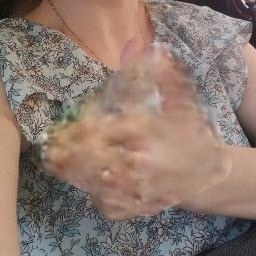
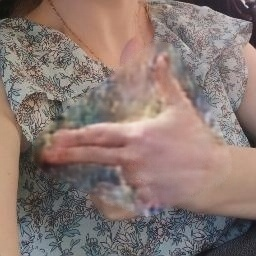
nice results

Changed region(s): [[0.125, 0.1562, 0.875, 0.8438], [0.75, 0.5625, 0.9062, 0.625], [0.5, 0.2812, 0.5312, 0.3125]]

diff --git a/prepare_images.py b/prepare_images.py
@@ -6,29 +6,31 @@ import os
 from typing import List, Dict
 import json
 from tqdm import tqdm
-from consts import IMAGE_SIZE, GESTURES, ANNOTATIONS_PATH, IMAGES_PATH, CROPPED_PATH
+from consts import ANNOTATIONS_PATH, IMAGES_PATH
 
 mp_hands = mp.solutions.hands
 mp_drawing = mp.solutions.drawing_utils
 mp_drawing_styles = mp.solutions.drawing_styles
 hands = mp_hands.Hands(static_image_mode=True, max_num_hands=2)
 
-def remove_hand_and_draw_skeleton_blank(path, expand=60, fill_color=(255,255,255)):
+def remove_hand_and_draw_skeleton_blank(path, it, expand=60, fill_color=(255,255,255)):
+    if os.path.exists(path) == False:
+        return
     image_bgr = cv2.imread(path)
     h, w = image_bgr.shape[:2]
     img_rgb = cv2.cvtColor(image_bgr, cv2.COLOR_BGR2RGB)
 
     result = hands.process(img_rgb)
 
-    if not result.multi_hand_landmarks or len(result.multi_hand_landmarks) <= 3:
+    if not result.multi_hand_landmarks or it >= len(result.multi_hand_landmarks):
         return
 
     # --- STEP 1: create mask ---
     mask = np.zeros((h, w), dtype=np.uint8)
-    for hand in result.multi_hand_landmarks:
-        pts = np.array([(int(lm.x * w), int(lm.y * h)) for lm in hand.landmark], dtype=np.int32)
-        hull = cv2.convexHull(pts)
-        cv2.fillConvexPoly(mask, hull, 255)
+    hand = result.multi_hand_landmarks[it]
+    pts = np.array([(int(lm.x * w), int(lm.y * h)) for lm in hand.landmark], dtype=np.int32)
+    hull = cv2.convexHull(pts)
+    cv2.fillConvexPoly(mask, hull, 255)
 
     # expand mask so it covers entire hand
     kernel = cv2.getStructuringElement(cv2.MORPH_ELLIPSE, (expand, expand))
@@ -39,10 +41,11 @@ def remove_hand_and_draw_skeleton_blank(path, expand=60, fill_color=(255,255,255
     out[mask == 255] = fill_color  # paint hand area white (or black)
 
     # --- STEP 3: draw skeleton ---
-    for hand in result.multi_hand_landmarks:
-        mp_drawing.draw_landmarks(out, hand, mp_hands.HAND_CONNECTIONS)
-
-    cv2.imwrite(path.replace("cropped", "temp"), out)
+    mp_drawing.draw_landmarks(out, hand, mp_hands.HAND_CONNECTIONS)
+    
+    out_path = path.replace("cropped", "no_hands")
+    os.makedirs(os.path.dirname(out_path), exist_ok=True)
+    cv2.imwrite(out_path, out)
 
 def replace_gesture(source_gesture, target_gesture, expand=60, fill_color=(255,255,255)):
     image_bgr = cv2.imread(target_gesture)
@@ -74,7 +77,8 @@ def replace_gesture(source_gesture, target_gesture, expand=60, fill_color=(255,2
 
 # replace_gesture('./0a9ddce1-2cd4-4b14-9e43-3889b6a6e87c.jpg', './0a14f51b-4cf4-4694-adb2-4f3f41ae9f19.jpg', 40)
 
-def _crop_centered_box(image, bbox, output_size=(IMAGE_SIZE, IMAGE_SIZE)):
+def _crop_centered_box(image, bbox, image_size):
+    output_size = (image_size, image_size)
     img_h, img_w = image.shape[:2]
     x, y, w, h = bbox
 
@@ -122,7 +126,7 @@ class Record:
     hand_landmarks: List[List[List[float]]]  # 2D landmarks per hand
 DataStructure = Dict[str, Record]
 
-def _process_custom_json(image_dir, json_path, gesture_label, output_dir, output_size=(IMAGE_SIZE, IMAGE_SIZE)):
+def _process_custom_json(image_dir, json_path, gesture_label, output_dir, image_size):
     os.makedirs(output_dir, exist_ok=True)
 
     with open(json_path, 'r') as f:
@@ -140,43 +144,42 @@ def _process_custom_json(image_dir, json_path, gesture_label, output_dir, output
         image_path = os.path.join(image_dir, f"{gesture_label}/{image_id}.jpg")
         os.makedirs(os.path.join(image_dir, gesture_label), exist_ok=True)
 
-        image = cv2.imread(image_path)
-        if image is None:
-            print(f"❌ Cannot read image: {image_path}")
+        if os.path.exists(image_path) == False:
             continue
 
+        image = cv2.imread(image_path)
         bboxes = info.bboxes
 
         for it, bbox in enumerate(bboxes):
             if ((len(bboxes) > 1 and info.labels[it] != gesture_label) or len(info.hand_landmarks[it]) == 0):
                 continue
-            crop = _crop_centered_box(image, bbox, output_size)
+            
+            crop = _crop_centered_box(image, bbox, image_size)
 
             filename = f"{image_id}.jpg"
             out_path = os.path.join(output_dir, filename)
             cv2.imwrite(out_path, crop)
+            remove_hand_and_draw_skeleton_blank(out_path, it, expand=30, fill_color=(255,255,255))
 
     print(f"✅ Cropped images saved to: {output_dir}")
 
-def prepare_images():
-    for gesture in GESTURES:
+def prepare_images(gestures, image_size):
+    for gesture in gestures:
         for dirpath, _, filenames in os.walk(ANNOTATIONS_PATH):
             for filename in filenames:
                 file_path = os.path.join(dirpath, filename)
-                output_folder = os.path.join(dirpath.replace('annotations', 'cropped'), gesture)
                 if gesture not in file_path:
                     continue
+                output_folder = os.path.join(dirpath.replace('annotations', 'cropped'), gesture)
                 _process_custom_json(
                     image_dir=IMAGES_PATH,
                     json_path=file_path,
                     gesture_label=gesture,
                     output_dir=output_folder,
-                    output_size=(IMAGE_SIZE, IMAGE_SIZE)
+                    image_size=image_size
                 )
 
-# prepare_images()
-
-IMAGE_PATH = "./cropped/train/three_gun"
-for img_name in tqdm(os.listdir(IMAGE_PATH)):
-    path = os.path.join(IMAGE_PATH, img_name)
-    remove_hand_and_draw_skeleton_blank(path, expand=20, fill_color=(255,255,255))
+# IMAGE_PATH = "./cropped/train/three_gun"
+# for img_name in tqdm(os.listdir(IMAGE_PATH)):
+#     path = os.path.join(IMAGE_PATH, img_name)
+#     remove_hand_and_draw_skeleton_blank(path, expand=30, fill_color=(255,255,255)

diff --git a/dataset.py b/dataset.py
@@ -1,31 +1,47 @@
+import random
+import torch
 import os
 from PIL import Image
 from torch.utils.data import Dataset
 import torchvision.transforms as transforms
 
 class HandsDataset(Dataset):
-    def __init__(self, train_dir, size):
-        self.train_dir = train_dir
-        self.files = sorted(os.listdir(self.train_dir))
-        self.image_paths = []
-        self.label_paths = []
+    def __init__(self, base_dir, gestures, size, max_per_gesture=1000):
         self.transform = transforms.Compose([
             transforms.Resize((size, size)),
             transforms.ToTensor(),
             transforms.Normalize((0.5, 0.5, 0.5), (0.5, 0.5, 0.5)),                     # normalizing range (-1, 1)
         ])
+        self.samples = []
+        for gesture in gestures:
+            skel_dir = os.path.join(base_dir, f"no_hands/train/{gesture}")
+            real_dir = os.path.join(base_dir, f"cropped/train/{gesture}")
+            skel_files = sorted(os.listdir(skel_dir))[:max_per_gesture]
+            for f in skel_files:
+                skel_path = os.path.join(skel_dir, f)
+                real_path = os.path.join(real_dir, f)
+                if os.path.exists(real_path):
+                    self.samples.append((skel_path, real_path))
+
+        self.weights = [1.0 / len(gestures)] * len(self.samples)  # Equal weight per gesture
 
     def __len__(self):
-        return len(self.files)
+        return len(self.samples)
 
     def __getitem__(self, idx):
-        image_path = os.path.join(self.train_dir, self.files[idx])
-        image = Image.open(image_path).convert("RGB")
+        skel_img = Image.open(self.samples[idx][0]).convert("RGB")
+        real_img = Image.open(self.samples[idx][1]).convert("RGB")
 
-        orig_path = image_path.replace("no_hands", "cropped")
-        orig = Image.open(orig_path).convert("RGB")
+        # Apply same seed for paired augmentation
+        seed = random.randint(0, 2**32)
+        random.seed(seed)
+        skel = self.transform(skel_img)
+        random.seed(seed)
+        real = self.transform(real_img)
 
-        image = self.transform(image)
-        orig = self.transform(orig)
+        # Add noise to skeleton with 30% probability
+        if random.random() < 0.3:
+            skel += torch.randn_like(skel) * 0.05
+            skel = torch.clamp(skel, -1, 1)
 
-        return image, orig
+        return skel, real

diff --git a/train.py b/train.py
@@ -7,9 +7,10 @@ from tqdm.auto import tqdm
 import glob
 from models import Generator, Discriminator, Pix2Pix
 import numpy as np
+from perceptual import vgg_loss, VGGPerceptual
 
 class Train():
-    def __init__(self, device, train_loader, learning_rate, epochs, lambda_l1):
+    def __init__(self, device, train_loader, learning_rate, epochs, lambda_l1, lambda_vgg):
         self.device = device
         self.generator = Generator().to(device)
         self.discriminator = Discriminator().to(device)
@@ -18,7 +19,9 @@ class Train():
         self.pix2pix = Pix2Pix(self.generator, self.discriminator).to(device)
         self.epochs = epochs
         self.lambda_l1 = lambda_l1
+        self.lambda_vgg = lambda_vgg
         self.train_loader = train_loader
+        self.vgg_model = VGGPerceptual(device=device)
         self.load_checkpoint()
 
     def train_pix2pix(self, display_interval):
@@ -49,11 +52,15 @@ class Train():
                 fake_images = self.pix2pix.generator(segmented_images)
                 fake_output = self.pix2pix.discriminator(segmented_images, fake_images)
                 g_loss = self.pix2pix.generator_loss(fake_output, fake_images, real_images, self.lambda_l1)
-                g_loss.backward()
+
+                loss_vgg = vgg_loss(fake_images, real_images, self.vgg_model)
+                g_loss_total = g_loss + self.lambda_vgg * loss_vgg
+
+                g_loss_total.backward()
                 self.g_optimizer.step()
 
                 train_d_loss += d_loss.item()
-                train_g_loss += g_loss.item()
+                train_g_loss += g_loss_total.item()
 
             # average train loss per epoch
             train_d_losses.append(train_d_loss / len(self.train_loader))

diff --git a/main.py b/main.py
@@ -1,22 +1,29 @@
 import torch
-from torch.utils.data import DataLoader
+from torch.utils.data import DataLoader, WeightedRandomSampler
 from dataset import HandsDataset
 from train import Train
+from prepare_images import prepare_images
 
 device = torch.device("cuda" if torch.cuda.is_available() else "cpu")
 
+
 SIZE = 256
-batch_size = 32
+batch_size = 16
 num_epochs = 100
-learning_rate = 2e-4
-lambda_l1 = 50
+learning_rate = 1e-4
+lambda_l1 = 15
+lambda_vgg = 0.1
 display_interval = 10
-train_dir = "./no_hands/train/like"
+train_dir = "./"
+GESTURES = ['like', 'three_gun']
 
-train_dataset = HandsDataset(train_dir, size=SIZE)
-train_loader = DataLoader(train_dataset, batch_size=batch_size, shuffle=True, num_workers=2, persistent_workers=True)
+# prepare_images(GESTURES, SIZE)
 
-train = Train(device, train_loader, learning_rate, num_epochs, lambda_l1)
+train_dataset = HandsDataset(train_dir, GESTURES, size=SIZE)
+sampler = WeightedRandomSampler(train_dataset.weights, len(train_dataset))
+train_loader = DataLoader(train_dataset, batch_size=batch_size, num_workers=2, sampler=sampler, persistent_workers=True)
+
+train = Train(device, train_loader, learning_rate, num_epochs, lambda_l1, lambda_vgg)
 # train_g_losses, train_d_losses = train.train_pix2pix(display_interval)
 
 train.generate_image('./replace.jpg')

diff --git a/perceptual.py b/perceptual.py
@@ -1,0 +1,35 @@
+# Add at the top of the file
+import torchvision.models as models
+import torch.nn as nn
+import torch.nn.functional as F
+
+# Define a simple VGG perceptual module
+class VGGPerceptual(nn.Module):
+    def __init__(self, layers=(3, 8, 15), device='cuda'):
+        super().__init__()
+        vgg = models.vgg16(pretrained=True).features.eval()
+        self.slices = nn.ModuleList()
+        prev = 0
+        for l in layers:
+            self.slices.append(nn.Sequential(*list(vgg.children())[prev:l+1]))
+            prev = l+1
+        for p in self.parameters():
+            p.requires_grad = False
+        self.device = device
+        self.to(device)
+
+    def forward(self, x):
+        outs = []
+        cur = x
+        for s in self.slices:
+            cur = s(cur)
+            outs.append(cur)
+        return outs
+
+def vgg_loss(fake, target, vgg_model):
+    f_fake = vgg_model(fake)
+    f_real = vgg_model(target)
+    loss = 0
+    for a, b in zip(f_fake, f_real):
+        loss += F.l1_loss(a, b)
+    return loss

diff --git a/consts.py b/consts.py
@@ -5,13 +5,3 @@ ANNOTATIONS_PATH = './annotations'
 CHECKPOINT_PATH = './checkpoints'
 
 GESTURES = ['call', 'three_gun']
-
-IMAGE_SIZE = 256
-BUFFER_SIZE = 500
-BATCH_SIZE = 1
-
-OUTPUT_CHANNELS = 3
-
-LAMBDA = 20
-
-EPOCHS = 100
